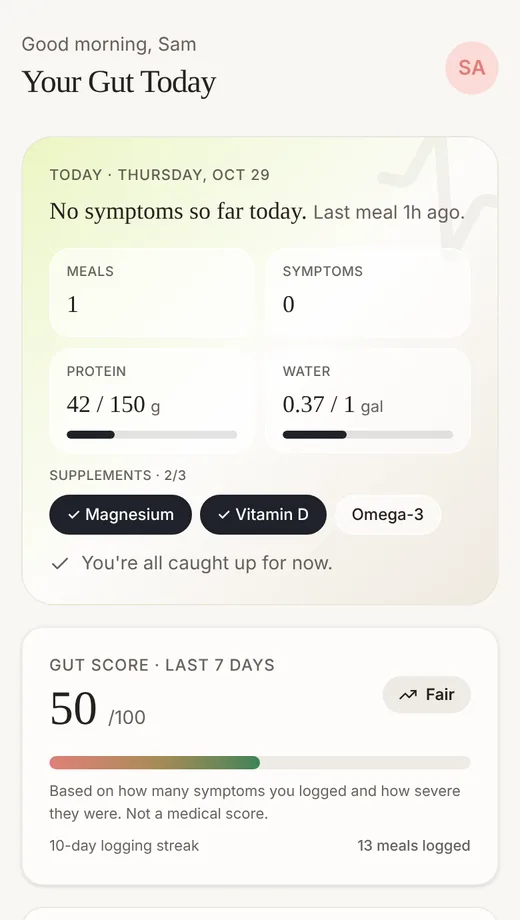
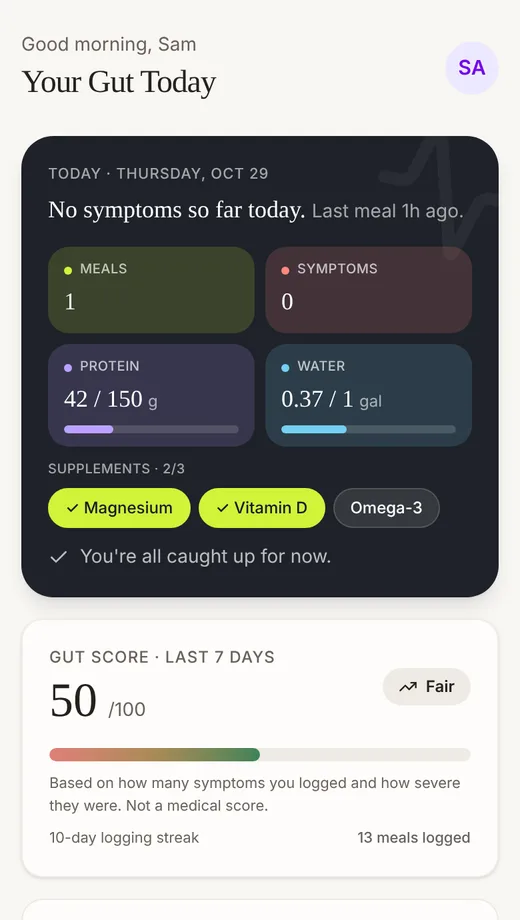
Today card: dark hero with a color per data type
Meals, symptoms, protein, water and fiber each get a fixed color on a
charcoal card; volt for actions. Landing screenshot refreshed.

Claude-Session: https://claude.ai/code/session_01KXyvZ2GsDTo13FrmtB1u6Z

diff --git a/client/src/components/TodayCard.tsx b/client/src/components/TodayCard.tsx
@@ -26,15 +26,27 @@ interface Props {
   reintroCheckInPending: boolean;
 }
 
-function Tile({ href, icon, value, unit, label, progress }: { href: string; icon: React.ReactNode; value: string; unit?: string; label: string; progress?: number }) {
+// One color per kind of data, so the same thing looks the same everywhere. Bright on the dark card.
+const TONE = {
+  meals: "oklch(0.91 0.2 120)",
+  symptoms: "oklch(0.76 0.15 25)",
+  protein: "oklch(0.77 0.14 295)",
+  water: "oklch(0.81 0.1 225)",
+  fiber: "oklch(0.83 0.14 80)",
+} as const;
+
+function Tile({ href, icon, value, unit, label, progress, tone }: { href: string; icon: React.ReactNode; value: string; unit?: string; label: string; progress?: number; tone: string }) {
   return (
     <Link href={href} className="min-w-0 block">
-      <div className="rounded-2xl bg-white/60 dark:bg-white/10 border border-white/70 dark:border-white/10 px-3 py-2.5 active:scale-95 transition-transform cursor-pointer">
-        <div className="flex items-center gap-1 text-foreground/70 [&_svg]:hidden">{icon}<span className="text-[10px] uppercase tracking-wide font-medium truncate">{label}</span></div>
-        <p className="text-lg font-display text-foreground mt-0.5 whitespace-nowrap">{value}{unit && <span className="text-xs font-sans text-muted-foreground ml-1">{unit}</span>}</p>
+      <div className="rounded-2xl px-3 py-2.5 active:scale-95 transition-transform cursor-pointer" style={{ background: `color-mix(in oklch, ${tone} 16%, transparent)` }}>
+        <div className="flex items-center gap-1.5 [&_svg]:hidden">
+          {icon}<span className="h-1.5 w-1.5 rounded-full shrink-0" style={{ background: tone }} />
+          <span className="text-[10px] uppercase tracking-wide font-medium truncate text-white/70">{label}</span>
+        </div>
+        <p className="text-lg font-display text-white mt-0.5 whitespace-nowrap">{value}{unit && <span className="text-xs font-sans text-white/60 ml-1">{unit}</span>}</p>
         {progress !== undefined && (
-          <div className="mt-1.5 h-1.5 rounded-full bg-black/10 dark:bg-white/15 overflow-hidden">
-            <div className="h-full rounded-full bg-primary" style={{ width: `${Math.min(100, Math.max(0, progress * 100))}%` }} />
+          <div className="mt-1.5 h-1.5 rounded-full bg-white/15 overflow-hidden">
+            <div className="h-full rounded-full" style={{ width: `${Math.min(100, Math.max(0, progress * 100))}%`, background: tone }} />
           </div>
         )}
       </div>
@@ -83,22 +95,23 @@ export default function TodayCard({ meals, symptoms, reintroCheckInPending }: Pr
 
   return (
     <motion.div
-      className="relative overflow-hidden rounded-3xl p-5 mb-4 border border-border/60 bg-gradient-to-br from-volt/30 via-card to-sand/40"
+      className="relative overflow-hidden rounded-3xl p-5 mb-4 bg-primary text-white shadow-lg shadow-black/10"
     >
-      <Activity aria-hidden className="absolute -right-4 -top-4 w-28 h-28 text-foreground/5 rotate-12" />
-      <p className="text-[11px] uppercase tracking-wider font-medium text-foreground/70">
+      <Activity aria-hidden className="absolute -right-4 -top-4 w-28 h-28 text-white/5 rotate-12" />
+      <p className="text-[11px] uppercase tracking-wider font-medium text-white/60">
         Today · {d.toLocaleDateString(undefined, { weekday: "long", month: "short", day: "numeric" })}
       </p>
-      <p className="font-display text-lg leading-snug text-foreground mt-1.5 relative">
-        {headline} {lastMealText && <span className="text-muted-foreground text-sm font-sans">{lastMealText}</span>}
+      <p className="font-display text-lg leading-snug text-white mt-1.5 relative">
+        {headline} {lastMealText && <span className="text-white/60 text-sm font-sans">{lastMealText}</span>}
       </p>
 
       <div className="grid grid-cols-2 gap-2 mt-4 relative">
-        <Tile href="/log?tab=food" icon={<UtensilsCrossed className="w-3 h-3" />} label="Meals" value={String(s.mealsToday)} />
-        <Tile href="/log?tab=symptoms" icon={<Activity className="w-3 h-3" />} label="Symptoms" value={String(s.symptomsToday)} />
+        <Tile href="/log?tab=food" icon={<UtensilsCrossed className="w-3 h-3" />} tone={TONE.meals} label="Meals" value={String(s.mealsToday)} />
+        <Tile href="/log?tab=symptoms" icon={<Activity className="w-3 h-3" />} tone={TONE.symptoms} label="Symptoms" value={String(s.symptomsToday)} />
         <Tile
           href="/progress?tab=nutrition"
           icon={<Dumbbell className="w-3 h-3" />}
+          tone={TONE.protein}
           label="Protein"
           unit="g"
           value={proteinG === null ? "–" : proteinTarget ? `${proteinG} / ${proteinTarget}` : `${proteinG}`}
@@ -107,6 +120,7 @@ export default function TodayCard({ meals, symptoms, reintroCheckInPending }: Pr
         <Tile
           href="/progress?tab=nutrition"
           icon={<Droplets className="w-3 h-3" />}
+          tone={TONE.water}
           label="Water"
           unit="gal"
           value={waterMl === null ? "–" : waterTargetMl ? `${formatGal(waterMl)} / ${formatGalTarget(waterTargetMl)}` : formatGal(waterMl)}
@@ -116,6 +130,7 @@ export default function TodayCard({ meals, symptoms, reintroCheckInPending }: Pr
           <Tile
             href="/progress?tab=nutrition"
             icon={<Activity className="w-3 h-3" />}
+            tone={TONE.fiber}
             label="Fiber (est.)"
             unit="g"
             value={fiberG === null ? "–" : `~${fiberG}`}
@@ -126,7 +141,7 @@ export default function TodayCard({ meals, symptoms, reintroCheckInPending }: Pr
 
       {supps.items.length > 0 && (
         <div className="mt-2.5 relative">
-          <p className="text-[10px] uppercase tracking-wide font-medium text-foreground/70 mb-1.5">Supplements · {supps.takenIds.size}/{supps.items.length}</p>
+          <p className="text-[10px] uppercase tracking-wide font-medium text-white/60 mb-1.5">Supplements · {supps.takenIds.size}/{supps.items.length}</p>
           <div className="flex flex-wrap gap-1.5">
             {supps.items.map(i => {
               const on = supps.takenIds.has(i.id);
@@ -136,7 +151,7 @@ export default function TodayCard({ meals, symptoms, reintroCheckInPending }: Pr
                   type="button"
                   onClick={() => supps.toggle(i.id)}
                   aria-pressed={on}
-                  className={`rounded-full px-3 py-1.5 text-xs font-medium border active:scale-95 transition-all ${on ? "bg-primary text-white border-primary" : "bg-white/60 dark:bg-white/10 border-white/70 dark:border-white/10 text-foreground"}`}
+                  className={`rounded-full px-3 py-1.5 text-xs font-medium border active:scale-95 transition-all ${on ? "bg-volt text-volt-foreground border-volt" : "bg-white/10 border-white/15 text-white"}`}
                 >
                   {on ? "✓ " : ""}{i.name}
                 </button>
@@ -148,13 +163,13 @@ export default function TodayCard({ meals, symptoms, reintroCheckInPending }: Pr
 
       {s.nudge.href && nudgeText ? (
         <Link href={s.nudge.href}>
-          <div className="mt-3 flex items-center justify-between rounded-2xl bg-primary text-primary-foreground px-4 py-3 active:scale-[0.98] transition-transform cursor-pointer relative">
+          <div className="mt-3 flex items-center justify-between rounded-2xl bg-volt text-volt-foreground px-4 py-3 active:scale-[0.98] transition-transform cursor-pointer relative">
             <span className="text-sm font-medium">{nudgeText}</span>
             <ArrowRight className="w-4 h-4" />
           </div>
         </Link>
       ) : (
-        <div className="mt-3 flex items-center gap-2 text-sm text-foreground/70 relative">
+        <div className="mt-3 flex items-center gap-2 text-sm text-white/70 relative">
           <Check className="w-4 h-4" /> You're all caught up for now.
         </div>
       )}
